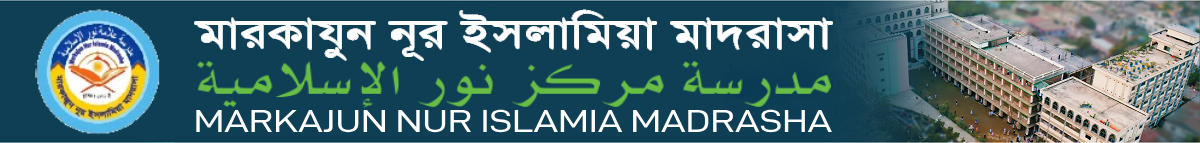
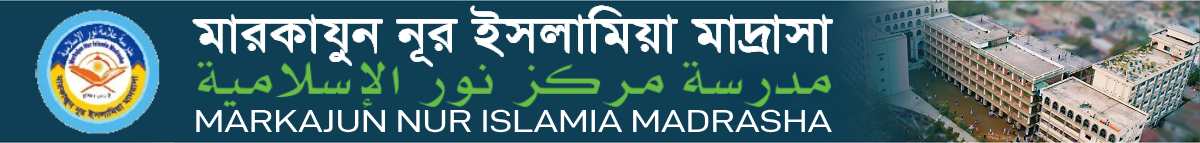
information corrention update

Changed region(s): [[0.1542, 0.028, 0.7092, 0.4755]]

diff --git a/pages/governing-body.html b/pages/governing-body.html
@@ -3,7 +3,7 @@
 
 <head>
     <!-- Meta Tags -->
-    <link rel='icon' href='favicon.ico' type='../assets/image/x-icon' />
+    <link rel='icon' href='assets/images/favicon.ico' type='assets/images/favicon.ico' />
     <meta name="viewport" content="width=device-width,initial-scale=1.0" />
     <meta http-equiv="content-type" content="text/html; charset=UTF-8" />
     <meta name="keywords"
@@ -26,7 +26,7 @@
 
 
     <!-- Page Title -->
-    <title style="font-family: SolaimanLipi;">মারকাযুন নূর ইসলামিয়া মাদরাসা</title>
+    <title style="font-family: SolaimanLipi;">মারকাযুন নূর ইসলামিয়া মাদ্রাসা</title>
     <!-- Favicon and Touch Icons -->
     <link rel="apple-touch-icon" sizes="57x57" href="../assets/images/apple-icon-57x57.png">
     <link rel="apple-touch-icon" sizes="60x60" href="../assets/images/apple-icon-60x60.png">
@@ -182,8 +182,8 @@
                                                         <th scope="row">4</th>
                                                         <td>জনাব মুহাম্মাদ আবদুর রশীদ<br>
                                                             ভাইস-প্রিন্সিপাল<br>
-                                                            সরকারি মাদরাসা-ই-আলিয়া, বকশি বাজার, ঢাকা</td>
-                                                        <td>বিদ্যোৎসাহী প্রতিনিধি<br> (মাদরাসা শিক্ষা অধিদপ্তর, ঢাকা)
+                                                            সরকারি মাদ্রাসা-ই-আলিয়া, বকশি বাজার, ঢাকা</td>
+                                                        <td>বিদ্যোৎসাহী প্রতিনিধি<br> (মাদ্রাসা শিক্ষা অধিদপ্তর, ঢাকা)
                                                         </td>
                                                         <td>01912119343</td>
                                                     </tr>
@@ -215,7 +215,7 @@
                                                     <tr>
                                                         <th scope="row">9</th>
                                                         <td>জনাব মো. খোরশেদ আলম নাদিম </td>
-                                                        <td>বিদ্যোৎসাহী প্রতিনিধি <br>(বাংলাদেশ মাদরাসা শিক্ষাবোর্ড)
+                                                        <td>বিদ্যোৎসাহী প্রতিনিধি <br>(বাংলাদেশ মাদ্রাসা শিক্ষাবোর্ড)
                                                         </td>
                                                         <td>০১৯৭২৪১৬১৪১</td>
                                                     </tr>
@@ -247,7 +247,7 @@
                                                         <th scope="row">14</th>
                                                         <td>আ.খ.ম. আবুবকর সিদ্দীক <br>
                                                             অধ্যক্ষ <br>
-                                                            মারকাযুন নূর ইসলামিয়া মাদরাসা</td>
+                                                            মারকাযুন নূর ইসলামিয়া মাদ্রাসা</td>
                                                         <td>সদস্য-সচিব</td>
                                                         <td>7500171 <br> 01712891493</td>
                                                     </tr>

diff --git a/pages/about-us.html b/pages/about-us.html
@@ -3,7 +3,7 @@
 
 <head>
     <!-- Meta Tags -->
-    <link rel='icon' href='favicon.ico' type='../assets/image/x-icon' />
+    <link rel='icon' href='assets/images/favicon.ico' type='assets/images/favicon.ico' />
     <meta name="viewport" content="width=device-width,initial-scale=1.0" />
     <meta http-equiv="content-type" content="text/html; charset=UTF-8" />
     <meta name="keywords"
@@ -26,7 +26,7 @@
 
 
     <!-- Page Title -->
-    <title style="font-family: SolaimanLipi;">মারকাযুন নূর ইসলামিয়া মাদরাসা</title>
+    <title style="font-family: SolaimanLipi;">মারকাযুন নূর ইসলামিয়া মাদ্রাসা</title>
     <!-- Favicon and Touch Icons -->
     <link rel="apple-touch-icon" sizes="57x57" href="../assets/images/apple-icon-57x57.png">
     <link rel="apple-touch-icon" sizes="60x60" href="../assets/images/apple-icon-60x60.png">
@@ -135,7 +135,7 @@
                                 <div class="col-md-12 text-left"
                                     style="background-color: #DBECFD; padding-left: 0px; padding-right: 10px; font-family: SolaimanLipi !important;">
                                     <h2 class="title font-38 text-theme-colored mt-30 mb-20"
-                                        style=" font-family: SolaimanLipi !important;">মারকাযুন নূর ইসলামিয়া মাদরাসা
+                                        style=" font-family: SolaimanLipi !important;">মারকাযুন নূর ইসলামিয়া মাদ্রাসা
                                         পরিচিতি</h2>
                                     <div class="row">
                                         <div class="col-md-12">
@@ -144,7 +144,7 @@
                                         </div>
 
                                         <div class="col-xs-12 col-sm-12 col-md-12">
-                                            <h3 style="font-weight: bold;">নাম : মারকাযুন নূর ইসলামিয়া মাদরাসা
+                                            <h3 style="font-weight: bold;">নাম : মারকাযুন নূর ইসলামিয়া মাদ্রাসা
                                             </h3>
                                             <p></p>
                                             <!-- <p class="we_font"><strong>E-mail:</strong> <a
@@ -232,7 +232,7 @@
 
                                             <!-- <ul>
                                                 <li>* তাখসীসি শাখা</li>
-                                                <li>* দারুননাজাত মহিলা মাদরাসা</li>
+                                                <li>* দারুননাজাত মহিলা মাদ্রাসা</li>
                                                 <li>* নেছারিয়া হেফজ খানা</li>
                                                 <li>* ছালেহিয়া এতিমখানা</li>
                                             </ul> -->

diff --git a/pages/key-feature.html b/pages/key-feature.html
@@ -3,7 +3,7 @@
 
 <head>
     <!-- Meta Tags -->
-    <link rel='icon' href='favicon.ico' type='../assets/image/x-icon' />
+    <link rel='icon' href='assets/images/favicon.ico' type='assets/images/favicon.ico' />
     <meta name="viewport" content="width=device-width,initial-scale=1.0" />
     <meta http-equiv="content-type" content="text/html; charset=UTF-8" />
     <meta name="keywords"
@@ -26,7 +26,7 @@
 
 
     <!-- Page Title -->
-    <title style="font-family: SolaimanLipi;">মারকাযুন নূর ইসলামিয়া মাদরাসা</title>
+    <title style="font-family: SolaimanLipi;">মারকাযুন নূর ইসলামিয়া মাদ্রাসা</title>
     <!-- Favicon and Touch Icons -->
     <link rel="apple-touch-icon" sizes="57x57" href="../assets/images/apple-icon-57x57.png">
     <link rel="apple-touch-icon" sizes="60x60" href="../assets/images/apple-icon-60x60.png">
@@ -261,7 +261,7 @@
                                             </ul>
 
                                             <ul class="key_feature_list">
-                                                <li><i class="glyphicon glyphicon-check"></i> বাংলাদেশ মাদরাসা
+                                                <li><i class="glyphicon glyphicon-check"></i> বাংলাদেশ মাদ্রাসা
                                                     শিক্ষাবোর্ড, ইসলামী বিশ্ববিদ্যালয় ও আরবি বিশ্ববিদ্যালয়ের
                                                     কারিকুলাম অনুযায়ী পরিচালিত। শিক্ষার্থীদের আমলী যিন্দেগী গঠনের
                                                     জন্য ফরজ ইবাদতের পাশাপাশি নফল নামায (আউয়াবীন, ইশরাক, তাহাজ্জুদ)
@@ -269,7 +269,7 @@
                                                 </li>
                                             </ul>
                                             <ul class="key_feature_list">
-                                                <li><i class="glyphicon glyphicon-check"></i> বাংলাদেশ মাদরাসা
+                                                <li><i class="glyphicon glyphicon-check"></i> বাংলাদেশ মাদ্রাসা
                                                     শিক্ষাবোর্ড, ইসলামী বিশ্ববিদ্যালয় ও আরবি বিশ্ববিদ্যালয়ের
                                                     কারিকুলাম অনুযায়ী পরিচালিত। শিক্ষার্থীদের আমলী যিন্দেগী গঠনের
                                                     জন্য ফরজ ইবাদতের পাশাপাশি নফল নামায (আউয়াবীন, ইশরাক, তাহাজ্জুদ)

diff --git a/pages/admission-procedure.html b/pages/admission-procedure.html
@@ -3,7 +3,7 @@
 
 <head>
     <!-- Meta Tags -->
-    <link rel='icon' href='favicon.ico' type='../assets/image/x-icon' />
+    <link rel='icon' href='assets/images/favicon.ico' type='assets/images/favicon.ico' />
     <meta name="viewport" content="width=device-width,initial-scale=1.0" />
     <meta http-equiv="content-type" content="text/html; charset=UTF-8" />
     <meta name="keywords"
@@ -26,7 +26,7 @@
 
 
     <!-- Page Title -->
-    <title style="font-family: SolaimanLipi;">মারকাযুন নূর ইসলামিয়া মাদরাসা</title>
+    <title style="font-family: SolaimanLipi;">মারকাযুন নূর ইসলামিয়া মাদ্রাসা</title>
     <!-- Favicon and Touch Icons -->
     <link rel="apple-touch-icon" sizes="57x57" href="../assets/images/apple-icon-57x57.png">
     <link rel="apple-touch-icon" sizes="60x60" href="../assets/images/apple-icon-60x60.png">
@@ -142,7 +142,7 @@
                                             <h4 class="widget-title title-dots"><span>ভর্তি প্রক্রিয়া</span></h4>
                                         </div>
                                         <div class="col-xs-12 col-sm-12 col-md-12">
-                                            <!-- <p style="text-align: justify;">১. মাদরাসার অফিস থেকে ভর্তি পরীক্ষার
+                                            <!-- <p style="text-align: justify;">১. মাদ্রাসার অফিস থেকে ভর্তি পরীক্ষার
                                                 প্রবেশপত্র সংগ্রহ করবে।
                                             </p> -->
                                             <p style="text-align: justify;">

diff --git a/pages/contact-us.html b/pages/contact-us.html
@@ -3,7 +3,7 @@
 
 <head>
     <!-- Meta Tags -->
-    <link rel='icon' href='favicon.ico' type='../assets/image/x-icon' />
+    <link rel='icon' href='assets/images/favicon.ico' type='assets/images/favicon.ico' />
     <meta name="viewport" content="width=device-width,initial-scale=1.0" />
     <meta http-equiv="content-type" content="text/html; charset=UTF-8" />
     <meta name="keywords"
@@ -26,7 +26,7 @@
 
 
     <!-- Page Title -->
-    <title style="font-family: SolaimanLipi;">মারকাযুন নূর ইসলামিয়া মাদরাসা</title>
+    <title style="font-family: SolaimanLipi;">মারকাযুন নূর ইসলামিয়া মাদ্রাসা</title>
     <!-- Favicon and Touch Icons -->
     <link rel="apple-touch-icon" sizes="57x57" href="../assets/images/apple-icon-57x57.png">
     <link rel="apple-touch-icon" sizes="60x60" href="../assets/images/apple-icon-60x60.png">
@@ -148,7 +148,7 @@
                                             <h4 class="widget-title title-dots"><span>ঠিকানা:</span></h4>
                                         </div>
                                         <div class="col-xs-12 col-sm-12 col-md-12">
-                                            <p style="font-size: 22px;"><strong>মারকাযুন নূর ইসলামিয়া মাদরাসা</strong>
+                                            <p style="font-size: 22px;"><strong>মারকাযুন নূর ইসলামিয়া মাদ্রাসা</strong>
                                             </p>
                                             <p>মধ্যেরচর, কেরানীগঞ্জ, ঢাকা</p>
                                             <p>ফোন: ০১৭২৭-৮৭৩৫৬৭</p>

diff --git a/index.html b/index.html
@@ -3,7 +3,7 @@
 
 <head>
   <!-- Meta Tags -->
-  <link rel='icon' href='favicon.ico' type='assets/image/x-icon' />
+  <link rel='icon' href='assets/images/favicon.ico' type='assets/images/favicon.ico' />
   <meta name="viewport" content="width=device-width,initial-scale=1.0" />
   <meta http-equiv="content-type" content="text/html; charset=UTF-8" />
   <meta name="keywords"
@@ -26,7 +26,7 @@
 
 
   <!-- Page Title -->
-  <title style="font-family: SolaimanLipi;">মারকাযুন নূর ইসলামিয়া মাদরাসা</title>
+  <title style="font-family: SolaimanLipi;">মারকাযুন নূর ইসলামিয়া মাদ্রাসা</title>
   <!-- Favicon and Touch Icons -->
   <link rel="apple-touch-icon" sizes="57x57" href="assets/images/apple-icon-57x57.png">
   <link rel="apple-touch-icon" sizes="60x60" href="assets/images/apple-icon-60x60.png">
@@ -172,7 +172,7 @@
                     style="background-color: #DBECFD; padding-left: 0px; padding-right: 10px; font-family: SolaimanLipi !important;text-align: justify !important;">
                     <h2 class="title font-38 text-theme-colored mt-30 mb-20"
                       style=" font-family: SolaimanLipi !important;text-shadow: -1px -1px 2px #f4ecec, 1px -1px 2px #f4ecec, -1px 1px 2px #c3bdbd, 1px 1px 10px #f4ecec;">
-                      মারকাযুন নূর ইসলামিয়া মাদরাসায় আপনাকে স্বাগতম </h2>
+                      মারকাযুন নূর ইসলামিয়া মাদ্রাসায় আপনাকে স্বাগতম </h2>
 
                     <p class="mb-20" style="text-align: justify !important; font-family: SolaimanLipi !important;">
                     <p><br />

diff --git a/pages/addmission-time.html b/pages/addmission-time.html
@@ -3,7 +3,7 @@
 
 <head>
     <!-- Meta Tags -->
-    <link rel='icon' href='favicon.ico' type='../assets/image/x-icon' />
+    <link rel='icon' href='assets/images/favicon.ico' type='assets/images/favicon.ico' />
     <meta name="viewport" content="width=device-width,initial-scale=1.0" />
     <meta http-equiv="content-type" content="text/html; charset=UTF-8" />
     <meta name="keywords"
@@ -26,7 +26,7 @@
 
 
     <!-- Page Title -->
-    <title style="font-family: SolaimanLipi;">মারকাযুন নূর ইসলামিয়া মাদরাসা</title>
+    <title style="font-family: SolaimanLipi;">মারকাযুন নূর ইসলামিয়া মাদ্রাসা</title>
     <!-- Favicon and Touch Icons -->
     <link rel="apple-touch-icon" sizes="57x57" href="../assets/images/apple-icon-57x57.png">
     <link rel="apple-touch-icon" sizes="60x60" href="../assets/images/apple-icon-60x60.png">
@@ -141,7 +141,7 @@
                                     <div class="row">
                                         <div class="col-md-12">
                                             <h4 class="widget-title title-dots"><span>
-                                                    মারকাযুন নূর ইসলামিয়া মাদরাসা (মূল ক্যাম্পাস):
+                                                    মারকাযুন নূর ইসলামিয়া মাদ্রাসা (মূল ক্যাম্পাস):
                                                 </span></h4>
                                         </div>
                                         <div class="col-xs-12 col-sm-12 col-md-12">

diff --git a/footer.html b/footer.html
@@ -34,10 +34,10 @@
           <ul class="list angle-double-right list-border">
 
             <li><a class="text-white" href="http://www.bmeb.gov.bd/" target="_blank"><i class="fa fa-paperclip"></i>
-                বাংলাদেশ মাদরাসা শিক্ষা বোর্ড </a></li>
+                বাংলাদেশ মাদ্রাসা শিক্ষা বোর্ড </a></li>
 
             <li><a class="text-white" href="http://www.dme.gov.bd/" target="_blank"><i class="fa fa-paperclip"></i>
-                বাংলাদেশ মাদরাসা শিক্ষা অধিদপ্তর </a></li>
+                বাংলাদেশ মাদ্রাসা শিক্ষা অধিদপ্তর </a></li>
 
             <li><a class="text-white" href="https://iau.edu.bd/" target="_blank"><i class="fa fa-paperclip"></i>
                 ইসলামি আরবী বিশ্ববিদ্যালয় </a></li>

diff --git a/pages/footer.html b/pages/footer.html
@@ -34,10 +34,10 @@
           <ul class="list angle-double-right list-border">
 
             <li><a class="text-white" href="http://www.bmeb.gov.bd/" target="_blank"><i class="fa fa-paperclip"></i>
-                বাংলাদেশ মাদরাসা শিক্ষা বোর্ড </a></li>
+                বাংলাদেশ মাদ্রাসা শিক্ষা বোর্ড </a></li>
 
             <li><a class="text-white" href="http://www.dme.gov.bd/" target="_blank"><i class="fa fa-paperclip"></i>
-                বাংলাদেশ মাদরাসা শিক্ষা অধিদপ্তর </a></li>
+                বাংলাদেশ মাদ্রাসা শিক্ষা অধিদপ্তর </a></li>
 
             <li><a class="text-white" href="https://iau.edu.bd/" target="_blank"><i class="fa fa-paperclip"></i>
                 ইসলামি আরবী বিশ্ববিদ্যালয় </a></li>

diff --git a/pages/curriculum.html b/pages/curriculum.html
@@ -3,7 +3,7 @@
 
 <head>
     <!-- Meta Tags -->
-    <link rel='icon' href='favicon.ico' type='../assets/image/x-icon' />
+    <link rel='icon' href='assets/images/favicon.ico' type='assets/images/favicon.ico' />
     <meta name="viewport" content="width=device-width,initial-scale=1.0" />
     <meta http-equiv="content-type" content="text/html; charset=UTF-8" />
     <meta name="keywords"
@@ -26,7 +26,7 @@
 
 
     <!-- Page Title -->
-    <title style="font-family: SolaimanLipi;">মারকাযুন নূর ইসলামিয়া মাদরাসা</title>
+    <title style="font-family: SolaimanLipi;">মারকাযুন নূর ইসলামিয়া মাদ্রাসা</title>
     <!-- Favicon and Touch Icons -->
     <link rel="apple-touch-icon" sizes="57x57" href="../assets/images/apple-icon-57x57.png">
     <link rel="apple-touch-icon" sizes="60x60" href="../assets/images/apple-icon-60x60.png">

diff --git a/pages/education-levels.html b/pages/education-levels.html
@@ -3,7 +3,7 @@
 
 <head>
     <!-- Meta Tags -->
-    <link rel='icon' href='favicon.ico' type='../assets/image/x-icon' />
+    <link rel='icon' href='assets/images/favicon.ico' type='assets/images/favicon.ico' />
     <meta name="viewport" content="width=device-width,initial-scale=1.0" />
     <meta http-equiv="content-type" content="text/html; charset=UTF-8" />
     <meta name="keywords"
@@ -26,7 +26,7 @@
 
 
     <!-- Page Title -->
-    <title style="font-family: SolaimanLipi;">মারকাযুন নূর ইসলামিয়া মাদরাসা</title>
+    <title style="font-family: SolaimanLipi;">মারকাযুন নূর ইসলামিয়া মাদ্রাসা</title>
     <!-- Favicon and Touch Icons -->
     <link rel="apple-touch-icon" sizes="57x57" href="../assets/images/apple-icon-57x57.png">
     <link rel="apple-touch-icon" sizes="60x60" href="../assets/images/apple-icon-60x60.png">

diff --git a/pages/hostel-introduction.html b/pages/hostel-introduction.html
@@ -3,7 +3,7 @@
 
 <head>
     <!-- Meta Tags -->
-    <link rel='icon' href='favicon.ico' type='../assets/image/x-icon' />
+    <link rel='icon' href='assets/images/favicon.ico' type='assets/images/favicon.ico' />
     <meta name="viewport" content="width=device-width,initial-scale=1.0" />
     <meta http-equiv="content-type" content="text/html; charset=UTF-8" />
     <meta name="keywords"
@@ -26,7 +26,7 @@
 
 
     <!-- Page Title -->
-    <title style="font-family: SolaimanLipi;">মারকাযুন নূর ইসলামিয়া মাদরাসা</title>
+    <title style="font-family: SolaimanLipi;">মারকাযুন নূর ইসলামিয়া মাদ্রাসা</title>
     <!-- Favicon and Touch Icons -->
     <link rel="apple-touch-icon" sizes="57x57" href="../assets/images/apple-icon-57x57.png">
     <link rel="apple-touch-icon" sizes="60x60" href="../assets/images/apple-icon-60x60.png">
